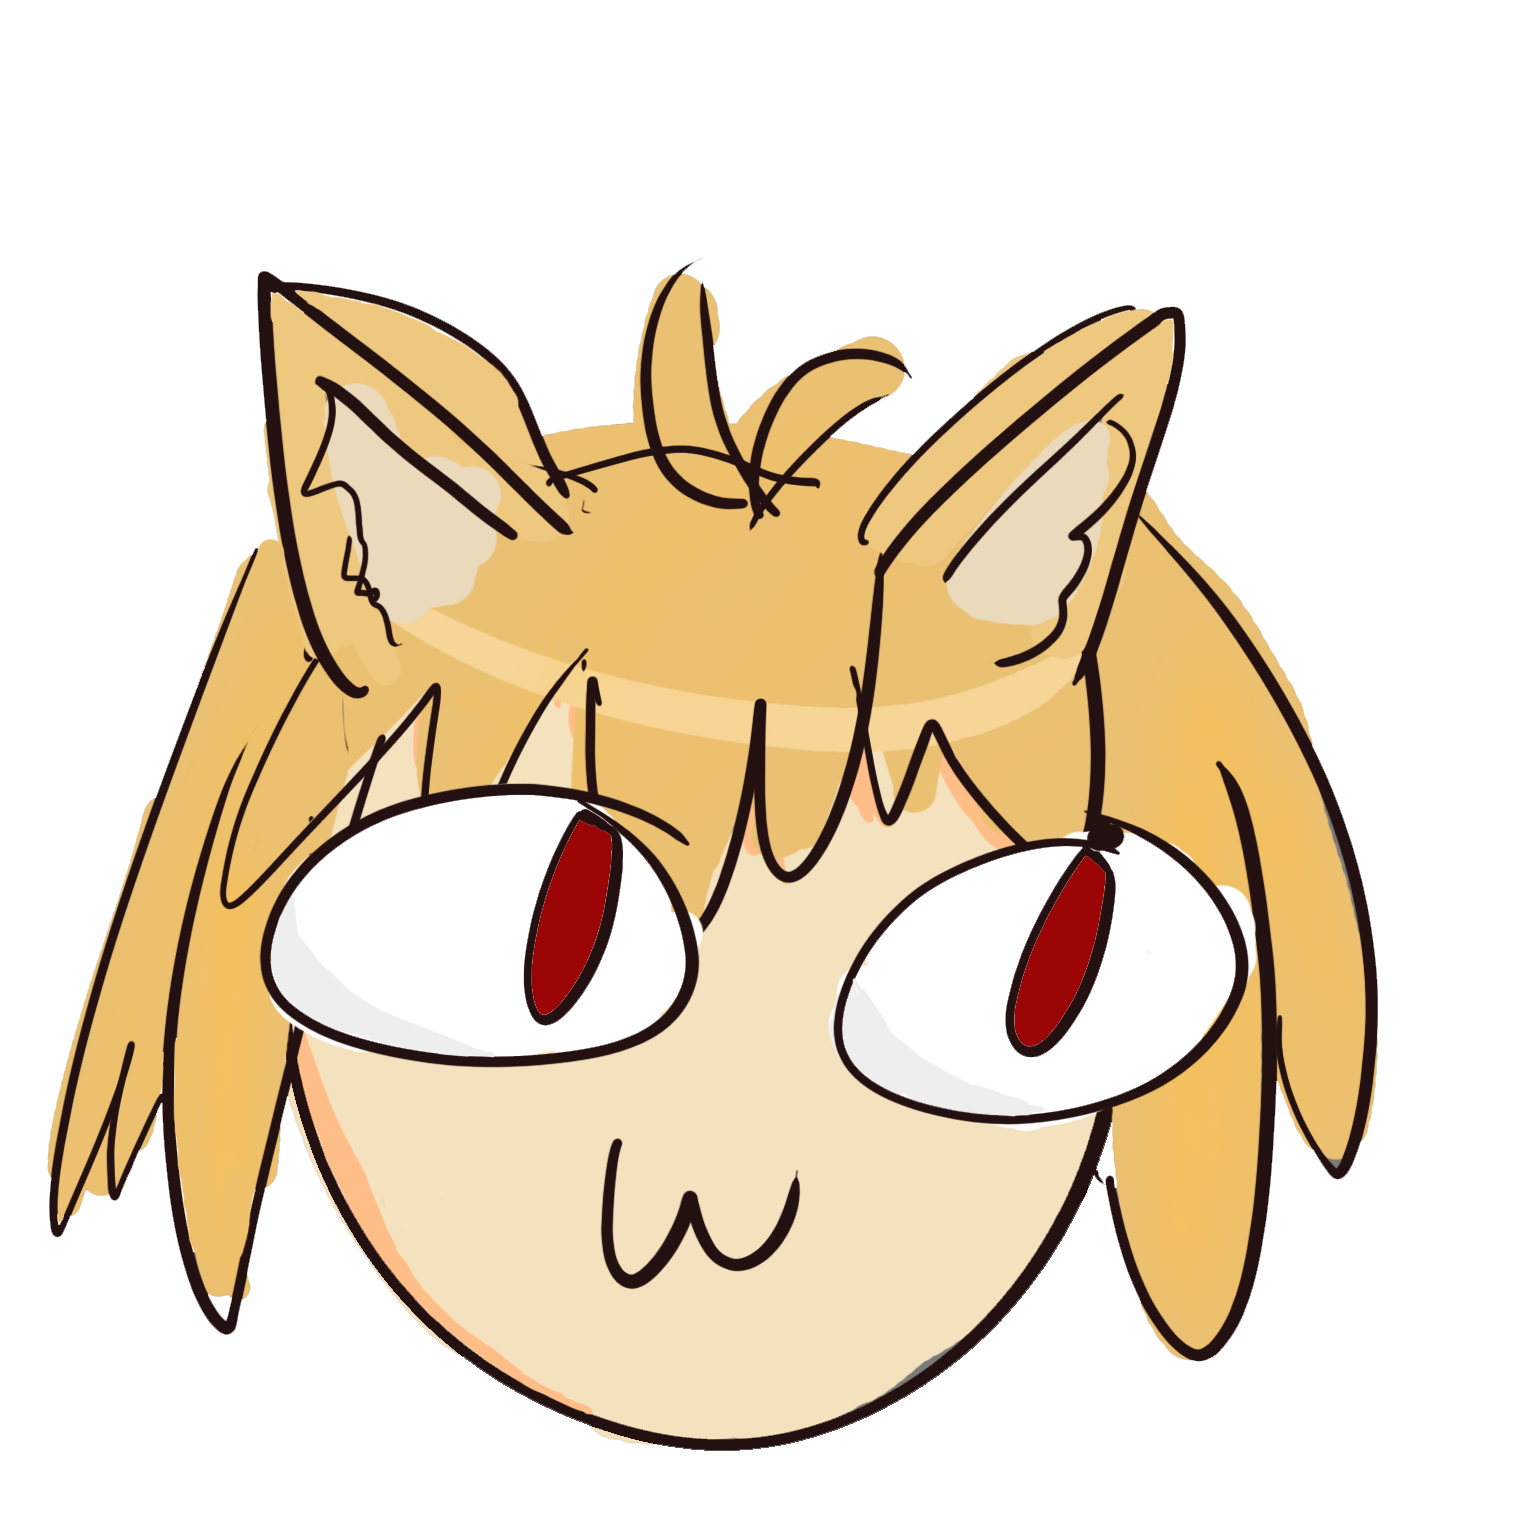
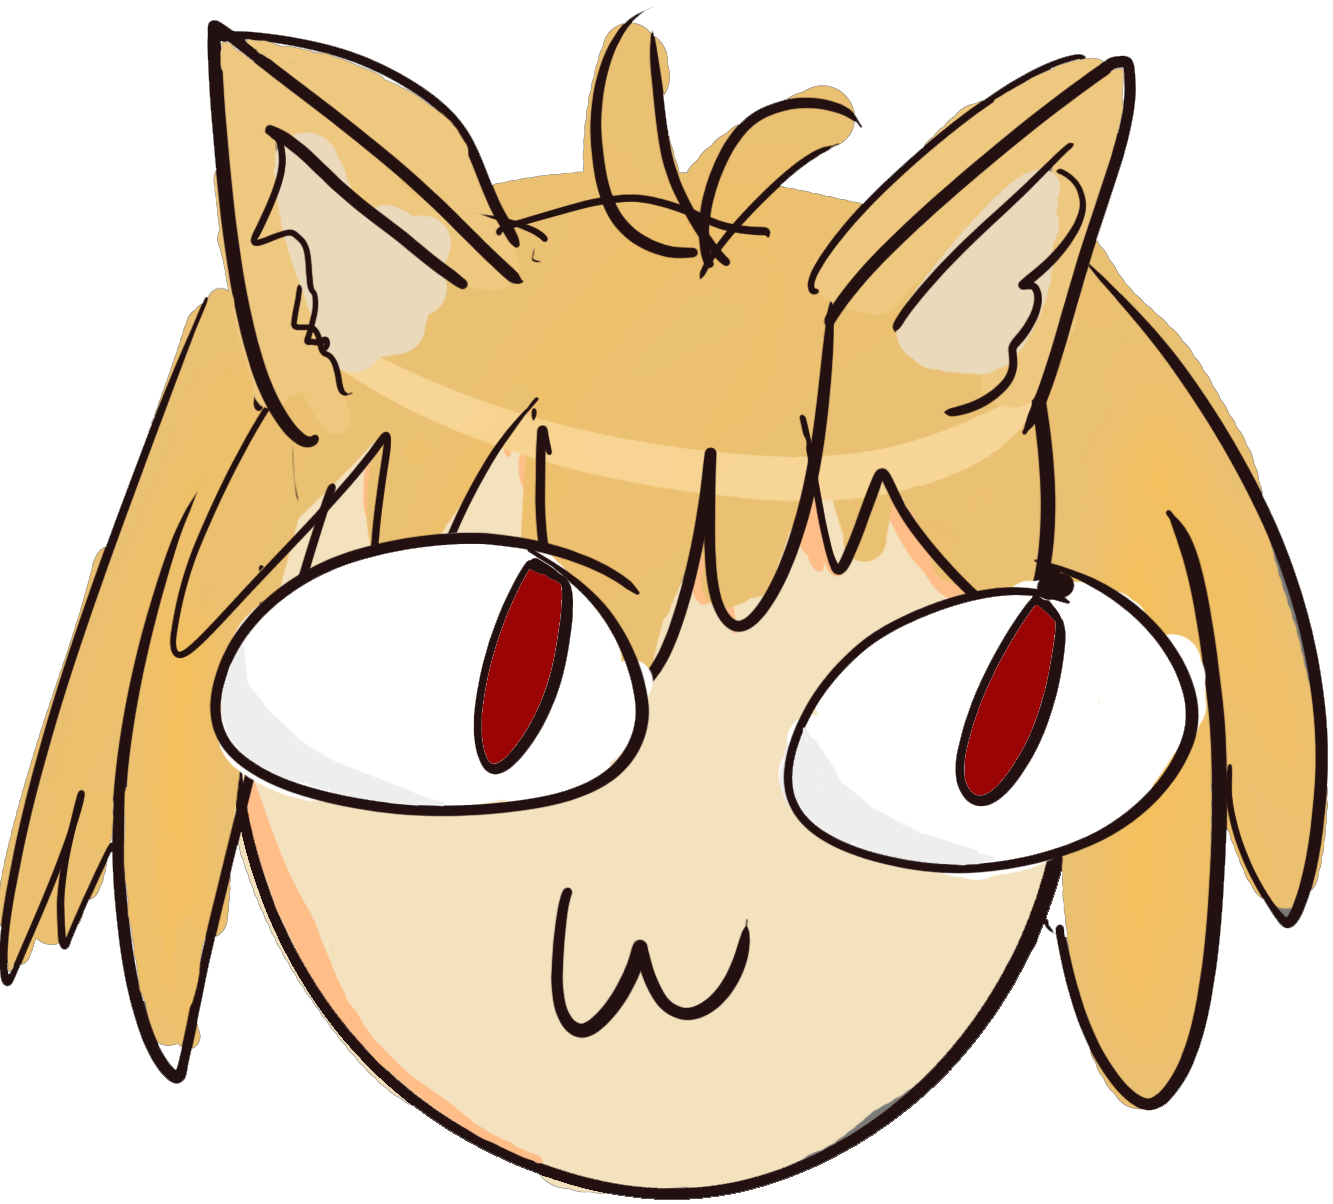
added the creature part 2

diff --git a/art/index.html b/art/index.html
@@ -29,8 +29,8 @@
               <p class="image-caption">#1. The first sketch of <i>the creature.</i></p>
             </div>
             <div class="gallery-item">
-                <img src="../img/cat_questionmark.png">
-              <p class="image-caption">#2. ???</p>
+                <img src="../img/necoarc day2.png">
+              <p class="image-caption">#2. <i>The creature</i> grew some eyebrows and is now SUPER PISSED!</p>
             </div>
             <div class="gallery-item">
                 <img src="../img/cat_questionmark.png">
